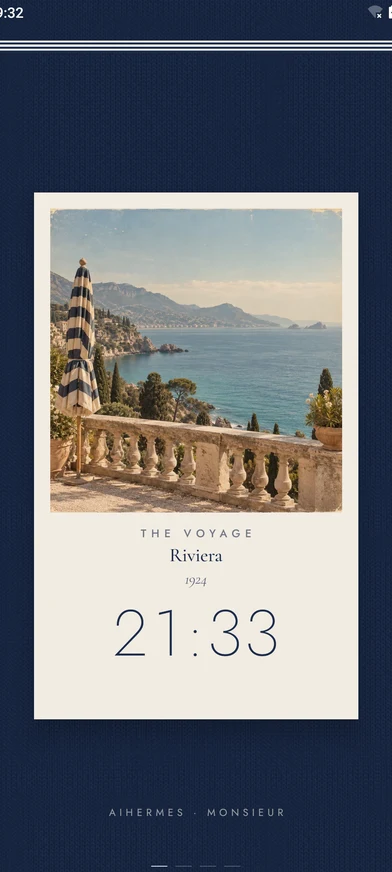
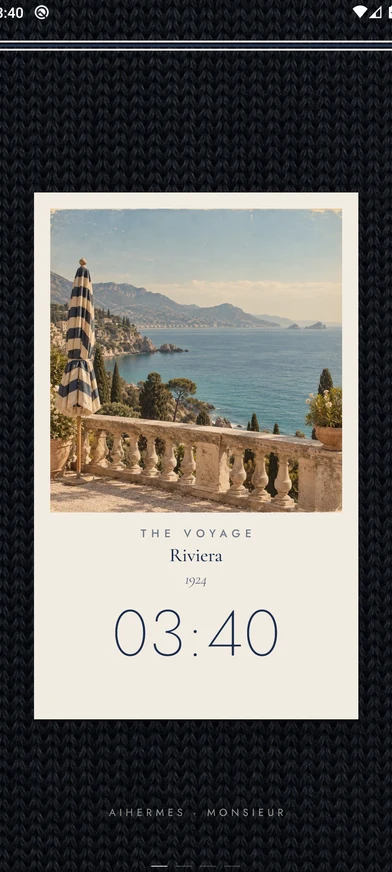
build-34 준비: 샤넬팀 — 견본 블랙/밝게, 열린 책 테두리·접힘 그늘·책장색, 줄무늬 남색 밝게
Claude-Session: https://claude.ai/code/session_018aKyYtwF79YZ5v8zAUEZTr

diff --git a/app/src/main/java/com/kiouvici/monsieur/Drawers.kt b/app/src/main/java/com/kiouvici/monsieur/Drawers.kt
@@ -515,13 +515,14 @@ class BookSpread(private val ctx: Context) : android.graphics.drawable.Drawable(
     override fun draw(c: Canvas) {
         val b = bounds
         paper.bounds = b; paper.draw(c)
-        val mid = b.exactCenterX(); val gw = ctx.dpf(18f)
-        p.shader = android.graphics.LinearGradient(mid - gw, 0f, mid, 0f, Color.TRANSPARENT, Color.argb(if (Dk.lib) 102 else 64, 0, 0, 0), android.graphics.Shader.TileMode.CLAMP)
+        val mid = b.exactCenterX(); val gw = ctx.dpf(if (Dk.lib) 12f else 18f)
+        val fold = if (Dk.lib) 140 else 64   // 블랙: 접힌 곳 그늘 55%
+        p.shader = android.graphics.LinearGradient(mid - gw, 0f, mid, 0f, Color.TRANSPARENT, Color.argb(fold, 0, 0, 0), android.graphics.Shader.TileMode.CLAMP)
         c.drawRect(mid - gw, b.top.toFloat(), mid, b.bottom.toFloat(), p)
-        p.shader = android.graphics.LinearGradient(mid, 0f, mid + gw, 0f, Color.argb(64, 0, 0, 0), Color.TRANSPARENT, android.graphics.Shader.TileMode.CLAMP)
+        p.shader = android.graphics.LinearGradient(mid, 0f, mid + gw, 0f, Color.argb(fold, 0, 0, 0), Color.TRANSPARENT, android.graphics.Shader.TileMode.CLAMP)
         c.drawRect(mid, b.top.toFloat(), mid + gw, b.bottom.toFloat(), p)
         p.shader = null; p.color = Color.argb(40, 0, 0, 0); c.drawRect(mid - .5f, b.top.toFloat(), mid + .5f, b.bottom.toFloat(), p)
-        if (Dk.lib) { p.style = Paint.Style.STROKE; p.strokeWidth = ctx.dpf(.75f); p.color = Color.argb(36, 237, 230, 216); c.drawRect(b.left + .5f, b.top + .5f, b.right - .5f, b.bottom - .5f, p); p.style = Paint.Style.FILL }
+        if (Dk.lib) { p.style = Paint.Style.STROKE; p.strokeWidth = ctx.dpf(1f); p.color = Color.argb(31, 237, 230, 216); c.drawRect(b.left + .5f, b.top + .5f, b.right - .5f, b.bottom - .5f, p); p.style = Paint.Style.FILL }
     }
     override fun setAlpha(alpha: Int) {}
     override fun setColorFilter(cf: android.graphics.ColorFilter?) {}
@@ -716,7 +717,7 @@ internal fun MainActivity.showCollection() {
     var placeFn: () -> Unit = {}
     val cards = (0 until 5).map { t ->
         FrameLayout(this).apply {
-            background = Pic(Style.img(this@showCollection, "th/pv_$t.webp"), Pic.FIT)
+            background = Pic(Style.img(this@showCollection, if ((t == Look.LIBRARY && !Dk.lib) || (t == Look.TRAIN && !Dk.voy)) "th/pv_${t}l.webp" else "th/pv_$t.webp"), Pic.FIT)
             elevation = dpf(10f); clipToOutline = true
         }.also { rail.addView(it, FrameLayout.LayoutParams(pw, ph, Gravity.CENTER_HORIZONTAL)) }
     }

diff --git a/app/src/main/java/com/kiouvici/monsieur/Theme28.kt b/app/src/main/java/com/kiouvici/monsieur/Theme28.kt
@@ -170,14 +170,14 @@ object Dk {
     @JvmStatic var lib = true
     @JvmStatic var voy = true
     const val LIB_BG = 0xFF15130F.toInt()      // 먹지 (따뜻한 검정)
-    const val LIB_PAGE = 0xFF1C1915.toInt()    // 열린 책장
+    const val LIB_PAGE = 0xFF1E1B17.toInt()    // 열린 책장
     const val LIB_TX = 0xFFEDE6D8.toInt()      // 본문 글자
     const val LIB_SUB = 0xFF8C8478.toInt()     // 보조 글자
     const val LIB_CORNER = 0xFFE3DCCF.toInt()  // 사진 모서리 (검정 위)
     const val LIB_DOT = 0xFFD23A40.toInt()     // 알림 점
     const val VOY_BG = 0xFF111318.toInt()      // 검은 니트 (차가운 검정)
     const val VOY_NAVY = 0xFF1B2A4A.toInt()    // 라벨 · 집 상자
-    const val VOY_NAVY2 = 0xFF24365C.toInt()   // 줄무늬 가운데 · CLOSE
+    const val VOY_NAVY2 = 0xFF2E4570.toInt()   // 줄무늬 가운데 (검정 니트 위에서 보이게)
     /** LIBRARY 글자색: 블랙이면 아이보리, 밝게면 먹 */
     fun li(a: Float = 1f) = tint(a, if (lib) LIB_TX else Style.INK)
     /** LIBRARY 바탕 */
